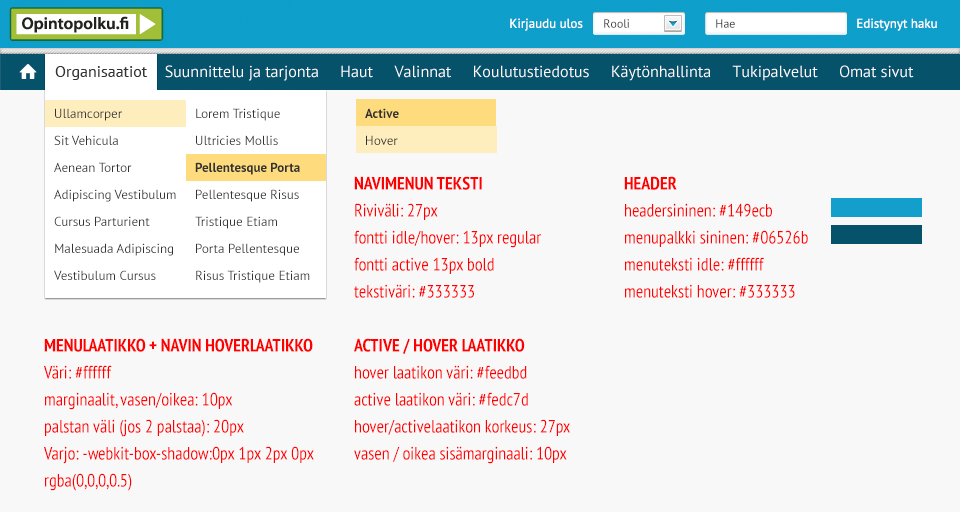
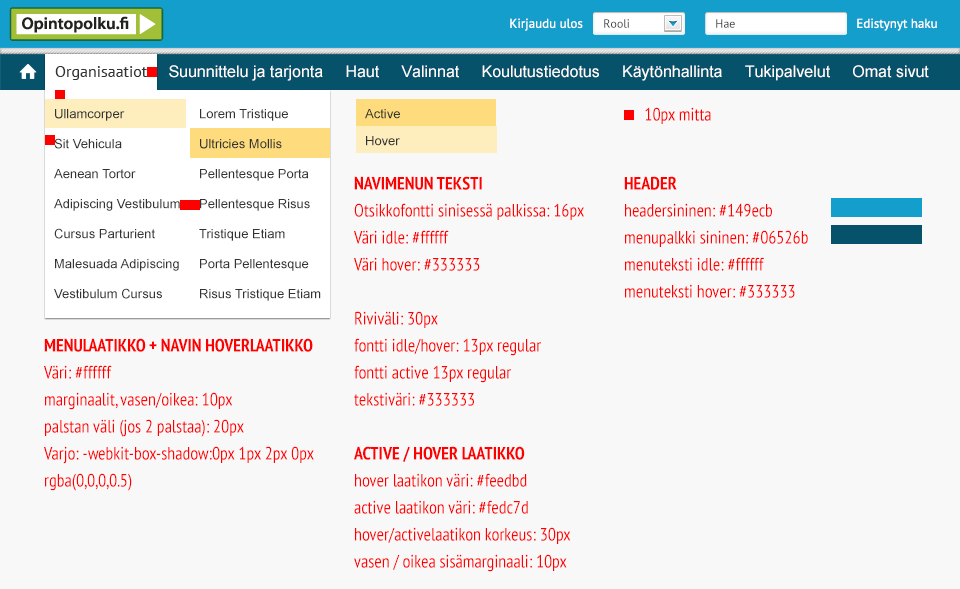
Ohjeita, esimerkkejä ja lisäkuvia

diff --git a/css-tyylikirjasto-virkailija.html b/css-tyylikirjasto-virkailija.html
@@ -50,12 +50,12 @@
           <li><a href="#taulukot">Taulukot</a></li>
           <li><a href="#murupolku">Murupolku</a></li>
           <li><a href="#muuta">Muuta</a></li>
-          <li><a href="#XXX">XXX</a></li>            
+          <!-- <li><a href="#XXX">XXX</a></li> -->            
             
         </ul>
     </div>
 <div class="span10">
-<p>Versio 0.1 — 30.12.2103 - matti.kilponen@cresense.com</p>    
+<p>Versio 0.2 — 9.1.2014 - matti.kilponen@cresense.com</p>    
 <div class="row-fluid">  <!-- ROW -->
 <h1>Esittely</h1>
     <p>Tässä dokumentissa esitellään Virkailijan työpöytäpalvelun visuaaliset elementit.</p>
@@ -65,17 +65,20 @@
 <p>Tämän dokumentin alussa kuvataan myös joitakin yleisiä tyyliseikkoja, joita ei ole toteutettu bootstrapilla. Näitä ovat logo, värit, ylätunniste ja footer.</p>
 <h2>Yleistä oppijan visuaalisesta tyylistä</h2>
 <p>Oppijan visuaalisen tyylin perusteet ovat yksinkertaisessa ja selkeässä värimaailmassa. Visuaalisia kolmiulotteisuutta imitoivia efektejä käytetään erittäin hillitysti. Painikkeita ja välilehtiä on hiukan korostettu liukuväreillä, muuten väripinnat ovat aina tasaisia.</p>
-<p>Kulmien pyöristystä käytetään sisältölaatikoissa, testinsyöttökentissä ja painikkeissa. Arvona käytetään silloin 3px.</p>
+<p>Kulmien pyöristystä käytetään sisältölaatikoissa, testinsyöttökentissä, painikkeissa ja alerteissa. Kulman pyöristysarvona on silloin 3px.</p>
 </div>
 
 <div class="row-fluid"> <!-- ROW -->
     <h2 id="logo">Logo <small></small></h2>
 <div class="well">
     <img src="img/Opintopolku-FI-134px-34px.png">
-    <p>Logo virkailijan sivuston ylätunnistetta varten, koko 134 x 34 pikseliä.</p>
-        <img src="img/Opintopolku-FI-225px-50px.png">
-    <p>Logo julkista opintopolkua varten, koko 225 x 50 pikseliä.</p>
-    
+    <p>Suomenkielinen logo virkailijan sivuston ylätunnistetta varten, koko 134 x 34 pikseliä.</p>
+    <img src="img/Studieinfo-SWE-134px-34px.png">
+    <p>Ruotsinkielinen logo virkailijan sivuston ylätunnistetta varten, koko 134 x 34 pikseliä.</p> 
+    <img src="img/Opintopolku-FI-225px-50px.png">
+    <p>Suomenkielinen logo julkista opintopolkua varten, koko 225 x 50 pikseliä.</p>
+    <img src="img/Studieinfo-SWE-225px-50px.png">
+    <p>Ruotsinkielinen logo julkista opintopolkua varten, koko 225 x 50 pikseliä.</p>
     <p>Logon käyttöä ohjaavat erilliset ohjeet joita tulee aina noudattaa. Logosta ei tule valmistaa uusia versioita muista kuin alkuperäisistä vektorimuodossa olevasta tiedostosta.</p>
     </div>
 </div> 					<!-- END ROW -->    
@@ -84,7 +87,10 @@
     <h2 id="varit">Värit <small></small></h2>
 <div style="" class="well">
     <h5>Yleistä värien käytöstä</h5>
-    <p>Värejä ei pidä käyttä itsetarkoituksellisesti koristeena vaan niiden käytössä on muistettava seuraavat periaatteet. xxx Pääväri on sininen, joka toimii tunnisteena koko palvelulle ja yhdistää Oppijan ja Virkailijan palvelut. Huomiovärinä toimii keltainen, joka korostaa pääasiallisia toimintoja. </p>
+    <p>Värejä ei pidä käyttä itsetarkoituksellisesti koristeena vaan niiden käytössä on muistettava funktionaalisuus ja palvelun yhtenäinen ilme.</p> 
+    <p>Pääväri on sininen, joka toimii tunnisteena koko palvelulle ja yhdistää Oppijan ja Virkailijan palvelut. Huomiovärinä toimii keltainen, joka korostaa pääasiallisia toimintoja.</p>
+<p>Palvelun tekstit kirjoitetaan pääasiassa mustalla värillä jonka hex-väriarvo on #333333. Tämä hieman vaalennettu musta on miellyttävämpi luettavuudeltaan silmille, mutta kuitenkin riittävä saavutettavuudeltaan.</p>
+<!-- <p>Pitäisikö tässä olla jotain saavutettavuudesta?</p>-->    
     <p>Oheinen kuva osoittaa miten värit sijoittuvat väriympyrälle. Värimuunnelmat on muodostettu säätämällä päävärien, sinisen ja keltaisen, valoisuutta. </p>    
 <div style="background-color:#149ecb; text-align:center; vertical-align: middle; padding:2em; border-style:solid;
 border-width:5px; border-color:white; box-shadow: 0px 0px 1px 0px rgba(0,0,0,0.5); border-radius:3px;" class="span2">#149ecb</div>
@@ -99,17 +105,6 @@ border-width:5px; border-color:white; box-shadow: 0px 0px 1px 0px rgba(0,0,0,0.5
     <div class="">
     <img style="margin-top:20px" class="img-rounded" src="img/variympyra.png">
     </div>    
-<!--
-    <div style="background-color:#149ecb; border-style:solid;
-border-width:5px; border-color:white; box-shadow: 0px 0px 1px 0px rgba(0,0,0,0.5); width: 100px; height:100px; padding-top:35px; padding-left:20px;" class="span1">#149ecb</div>
-<div style="background-color:#06526B; border-style:solid;
-border-width:5px; border-color:white; box-shadow: 0px 0px 1px 0px rgba(0,0,0,0.5); width: 100px; height:100px; padding-top:35px; padding-left:20px;" class="span1">#06526B</div>
-<div style="background-color:#feedbd; border-style:solid;
-border-width:5px; border-color:white; box-shadow: 0px 0px 1px 0px rgba(0,0,0,0.5); width: 100px; height:100px; padding-top:35px; padding-left:20px;" class="span1">#feedbd</div>
-    <div style="background-color:#feba00; border-style:solid;
-border-width:5px; border-color:white; box-shadow: 0px 0px 1px 0px rgba(0,0,0,0.5); width: 100px; height:100px; padding-top:35px; padding-left:20px;" class="span1">#feba00</div>    
-    </div>
--->
 </div> 					<!-- END ROW -->
 
 <div class="row-fluid"> <!-- ROW -->
@@ -130,8 +125,31 @@ border-width:5px; border-color:white; box-shadow: 0px 0px 1px 0px rgba(0,0,0,0.5
 </div> 					<!-- END ROW -->
 
 <div class="row-fluid"> <!-- ROW -->
+    <h2 id="murupolku">Murupolku <small></small></h2>
+    <div class="well">
+    <p>Angularin murupolkua ei ole muokattu virkailijan tyyliin, mutta oheisen kuvan mukaan sen voi tehdä tarvittaessa.</p>
+        <img src="img/murupolku.png">
+
+    
+<h5>Murupolun kuvaresurssit</h5>
+<p><img src="img/breadcrumb-home-icon.png"></p>
+<p>Koti-ikoni</p>        
+<p><img src="img/breadcrumb-arrow-icon.png"></p>
+<p>Väkänen</p>
+
+    </div>
+</div> 					<!-- END ROW -->    
+    
+<div class="row-fluid"> <!-- ROW -->
     <h2 id="footer">Footer <small></small></h2>
-<div class="well"><p>Footer koostuu laatikosta jossa voi tarpeen mukaan näyttää linkit kaikkiin Virkailijan palvelun sovelluksiin. Footerin alapuolelle sijoitetaan alatunniste jossa näytetään Opetushallituksen ja Opetus- ja kulttuuriministeriön logot ja osoitteet. Näiden edellämainittujen alle sijoitetaan copyright-lauseke.</p><img src="img/Virkailija_Footer_17.12.2013.png"> </div>
+<div class="well"><p>Footer koostuu laatikosta jossa voi tarpeen mukaan näyttää linkit kaikkiin Virkailijan palvelun sovelluksiin. Footerin alapuolelle sijoitetaan alatunniste jossa näytetään Opetushallituksen ja Opetus- ja kulttuuriministeriön logot ja osoitteet. Näiden edellämainittujen alle sijoitetaan copyright-lauseke.</p><img src="img/Virkailija_Footer_17.12.2013.png"> 
+<h5>Footerin kuvaresurssit</h5>
+<p>Kannattaa huomata että logoja ei tule muokata. Jos on tarve käyttää pienempää tai isompaa logoa ne tulee valmistaa käyttämällä alkuperäistä vektorimuotoista tiedostoa.</p>     
+<p><img src="img/OPH_logo.png"></p>
+<p>OPH logo</p>
+<p><img src="img/OKM_logo.png"></p>    
+<p>OKM logo</p>    
+</div>
 </div> 					<!-- END ROW -->
     
 <div class="row-fluid"> <!-- ROW -->
@@ -158,7 +176,7 @@ border-width:5px; border-color:white; box-shadow: 0px 0px 1px 0px rgba(0,0,0,0.5
         <button class="btn btn-primary btn-large" disabled>Painike primary iso disabled</button>
     </p>
     <h5>Milloin iso painike?</h5>
-        <p>Isoa painiketta voi käyttää näkymissä, joissa on vain vähän toimintoja ja pieni painike näyttäisi suhteettoman pieneltä muuten tyhjällä sivulla. Esimerkiksi jos näkymässä on vain yksi hakukenttä ja painike. Hakukenttä on kuitenkin silloin oltava suhteessa painikkeen kokoon.</p>
+        <p>Isoa painiketta voi käyttää näkymissä, joissa on vain vähän toimintoja ja pieni painike näyttäisi suhteettoman pieneltä muuten tyhjällä sivulla. Esimerkiksi jos näkymässä on vain yksi hakukenttä ja painike. Hakukenttä on kuitenkin silloin oltava suhteessa painikkeen kokoon. Katso esimerkki kohdasta <a href="#lomake">lomakekentät</a></p>
     </div>
 </div>		<!-- END ROW -->
 
@@ -213,15 +231,7 @@ border-width:5px; border-color:white; box-shadow: 0px 0px 1px 0px rgba(0,0,0,0.5
                             <input name="YourLastName" id="YourLastName" type="text" placeholder="Kirjoita jotain">
                         </div>
                 </div>
-<!--
-                <div class="control-group">
-                    <label for="YourStory" class="control-label">Tarinani</label>
-                        <div class="controls">
-                            <textarea name="YourStory" id="YourStory"  rows="5"></textarea>
-                        </div>
-                
-                </div>
--->
+
                 <div class="control-group">
                     <div class="controls">
                         <label class="checkbox">
@@ -242,6 +252,14 @@ border-width:5px; border-color:white; box-shadow: 0px 0px 1px 0px rgba(0,0,0,0.5
   <button type="submit" class="btn btn-primary">Hae</button>
     <a href="#" type="submit" class="">Edistynyt haku</a>
 </form>
+<hr>            
+
+<p>Hakukenttä ja painike, joiden kokoa on kasvatettu. Hakukentän kokoa ei voi tällä hetkellä kasvattaa angularin css tyyleillä, tässä tapauksessa kokoa on muutettu vastaamaan painikkeen kokoa antamalla tekstikentälle padding-arvoksi 11px. Painikkeen koko on muutettu isommaksi lisäämällä sille luokka <code>btn-large</code></p>            
+<form class="form-search">
+  <input type="text" style="padding:11px" class="input-medium">
+  <button type="submit" class="btn btn-primary btn-large">Hae</button>
+</form>             
+        
 <hr>
 <p>Käyttämällä luokkaa <code>.input-append</code> painikkeen voi liittää kiinni syöttökenttään.</p>                
 <div class="input-append">
@@ -282,19 +300,65 @@ border-width:5px; border-color:white; box-shadow: 0px 0px 1px 0px rgba(0,0,0,0.5
 <div class="row-fluid"> <!-- ROW -->
 <h2 id="typografia">Typografia</h2>
     <div class="well">
-
-        <h5>Body-fontin koko ja riviväli</h5>
-        <p>Tekstin koko on 13px ja riviväli 20px. Suhteellisia mittayksiköitä voi myös käyttää kunhan ne tuottavat selaimessa vastaavankokoisen lopputuloksen.</p>
         <h5>Fontstack</h5>
-        <p><code>"Helvetica Neue",Helvetica,Arial,sans-serif;</code></p>
+          
+        <p>Käytössä on seuraava fontstack: <code>"Helvetica Neue",Helvetica,Arial,sans-serif;</code></p>
+        <p>Pääasiallinen fontti on Helvetica Neue. Jos sitä ei löydy koneesta yritetään käyttää seuraavia fontteja: Helvetica, Arial tai geneerinen sans-serif fontti.</p>
 
-        <h1>h1 Otsikko. 28px</h1>
-        <h2>h2 Otsikko. 22px.</h2>
-        <h3>h3 Otsikko. 18px.</h3>
-        <h4>h4 Otsikko. 16px.</h4>
-        <h5>h5 Otsikko. 13px.</h5>
-        <h6>h6 Otsikko. 12px.</h6>
-        <p>Jukolan talo, eteläisessä Hämeessä, seisoo erään mäen pohjaisella rinteellä, liki Toukolan kylää. Sen läheisin ympäristö on kivinen tanner, mutta alempana alkaa pellot, joissa, ennenkuin talo oli häviöön mennyt, aaltoili teräinen vilja. Peltojen alla on niittu, apilaäyräinen, halkileikkaama monipolvisen ojan; ja runsaasti antoi se heiniä, ennenkuin joutui laitumeksi kylän karjalle. Muutoin on talolla avaria metsiä, soita ja erämaita, jotka, tämän tilustan ensimmäisen perustajan oivallisen toiminnan kautta, olivat langenneet sille osaksi jo ison-jaon käydessä entisinä aikoina. Silloinpa Jukolan isäntä, pitäen enemmän huolta jälkeentulevainsa edusta kuin omasta parhaastansa, otti vastaan osaksensa kulon polttaman metsän ja sai sillä keinolla seitsemän vertaa enemmän kuin toiset naapurinsa. Mutta kaikki kulovalkean jäljet olivat jo kadonneet hänen piiristänsä ja tuuhea metsä kasvanut sijaan.—Ja tämä on niiden seitsemän veljen koto, joiden elämänvaiheita tässä nyt käyn kertoilemaan.</p>        
+        <h1>H1 Otsikko. 28px</h1>
+        <p>H1 tason otsikko. Koko: 28px, väri: #333333, tyyli: bold.</p>
+        <h2>H2 Otsikko. 22px.</h2>
+        <p>H2 tason otsikko. Koko: 22px, väri: #333333, tyyli: bold.</p>
+        <h3>H3 Otsikko. 18px.</h3>
+        <p>H3 tason otsikko. Koko: 18px, väri: #333333, tyyli: bold.</p>
+        <h4>H4 Otsikko. 16px.</h4>
+        <p>H4 tason otsikko. Koko: 16px, väri: #333333, tyyli: bold.</p>
+        <h5>H5 Otsikko. 13px.</h5>
+        <p>H5 tason otsikko. Koko: 13px, väri: #333333, tyyli: bold.</p>
+        <h6>H6 Otsikko. 12px.</h6>
+        <p>H5 tason otsikko. Koko: 12px, väri: #333333, tyyli: bold.</p>
+        <h5>Body-fontti</h5>
+        <p>Tekstin koko 13px, väri #333333, tyyli normal ja riviväli 20px.</p>
+        <p>Suhteellisia mittayksiköitä voi myös käyttää koon määrittämisessä kunhan ne tuottavat selaimessa vastaavankokoisen lopputuloksen.</p>
+        <h5>Esimerkkitekstiä</h5>
+        <p>Jukolan talo, eteläisessä Hämeessä, seisoo erään mäen pohjaisella rinteellä, liki Toukolan kylää. Sen läheisin ympäristö on kivinen tanner, mutta alempana alkaa pellot, joissa, ennenkuin talo oli häviöön mennyt, aaltoili teräinen vilja. Peltojen alla on niittu, apilaäyräinen, halkileikkaama monipolvisen ojan; ja runsaasti antoi se heiniä, ennenkuin joutui laitumeksi kylän karjalle. Muutoin on talolla avaria metsiä, soita ja erämaita, jotka, tämän tilustan ensimmäisen perustajan oivallisen toiminnan kautta, olivat langenneet sille osaksi jo ison-jaon käydessä entisinä aikoina. Silloinpa Jukolan isäntä, pitäen enemmän huolta jälkeentulevainsa edusta kuin omasta parhaastansa, otti vastaan osaksensa kulon polttaman metsän ja sai sillä keinolla seitsemän vertaa enemmän kuin toiset naapurinsa. Mutta kaikki kulovalkean jäljet olivat jo kadonneet hänen piiristänsä ja tuuhea metsä kasvanut sijaan.—Ja tämä on niiden seitsemän veljen koto, joiden elämänvaiheita tässä nyt käyn kertoilemaan.</p>
+
+<p><em>Kursiiviteksti</em></p>
+<p><strong>Vahvistettu teksti</strong></p>
+
+<p>Numeroimaton lista</p>
+<ul>
+	<li>Juhani</li>
+	<li>Aapo</li>
+	<li>Tuomas</li>
+	<li>Simeoni</li>
+	<li>Timo</li>
+	<li>Lauri</li>
+	<li>Eero</li>
+        <ul>
+        <li>Männistön Venla</li>
+        <li>Lukkari</li>
+        <li>Rajamäen rykmentti</li>
+        <li>Viertolan herra</li>
+        <li>Valko</li>
+        <li>Killi ja Kiiski</li>
+        <li>Matti</li>
+        <li>Jukola</li>
+        <li>Impivaara</li>
+        <li>Toukola</li>
+        </ul>
+    </ul>
+<p>Numeroitu lista</p>
+<ol>
+	<li>Luku</li>
+	<li>Luku</li>
+	<li>Luku</li>
+	<li>Luku</li>
+	<li>Luku</li>
+	<li>Luku</li>
+	<li>Luku</li>
+</ol>
+
         
     </div>    
 </div>				<!-- END ROW -->
@@ -324,7 +388,7 @@ border-width:5px; border-color:white; box-shadow: 0px 0px 1px 0px rgba(0,0,0,0.5
     <h2 id="alertit">Alertit <small>eli huomiolaatikot</small></h2>
     <div class="well">
         <p>Alertteja varten on joissakin Virkailijasovelluksissa tehty oma komponentti, mutta jos sitä ei ole käytössä, voi käyttää allaolevia bootstrapin virkailija-tyyliin muokattuja komponentteja.</p>
-        <p>Alertteja on käytössä kolme eri väriä, keltainen <code>.alert</code> vihreä <code>.alert-success</code> ja sininen <code>.alert-info</code>. Keltainen ilmoittaa virheestä, vihreä onnistuneesta toiminnosta, sininen on neutraali ilmoitus. Bootstrapin punataustaista alerttia ei käytetä Virkailijan käyttöliittymässä vaan se korvataan keltataustaisella. Ikonin näyttäminen alertin sisällä on suositeltavaa. Jos ikonia käytetään täytyy lisätä luokka <code> .alert-block</code>, joka tuottaa isomman paddingin alertin sisään.</p>
+        <p>Alertteja on käytössä kolme eri väriä, keltainen <code>.alert</code> vihreä <code>.alert-success</code> ja sininen <code>.alert-info</code>. Keltainen ilmoittaa virheestä, vihreä onnistuneesta toiminnosta, sininen on neutraali ilmoitus. Bootstrapin punataustaista alerttia ei käytetä Virkailijan käyttöliittymässä vaan se korvataan keltataustaisella. Ikonin näyttäminen alertin sisällä on suositeltavaa, mutta ei välttämätöntä esimerkiksi tilan säästämiseksi. Jos ikonia käytetään täytyy lisätä luokka <code>.alert-block</code>, joka kasvattaa paddingia alertin sisällä.</p>
         <h3>Alert ikonin kanssa</h3>
         <div class="alert alert-block"><img style="margin-right:10px;" src="img/alert-icon28x29.png">Alert Block</div>
         <div class="alert alert-block alert-success"><img style="margin-right:10px;" src="img/confirm-icon28x29.png">Alert Block success</div>
@@ -482,10 +546,6 @@ border-width:5px; border-color:white; box-shadow: 0px 0px 1px 0px rgba(0,0,0,0.5
     </div>
 </div> 					<!-- END ROW -->
     
-<div class="row-fluid"> <!-- ROW -->
-    <h2 id="murupolku">Murupolku <small></small></h2>
-<div class="well"></div>
-</div> 					<!-- END ROW -->
     
 <div class="row-fluid"> <!-- ROW -->
     <h2 id="muuta">Muuta <small></small></h2>
@@ -499,15 +559,20 @@ border-width:5px; border-color:white; box-shadow: 0px 0px 1px 0px rgba(0,0,0,0.5
     </div>
 </div> 					<!-- END ROW -->
 
-<div class="row-fluid"> <!-- ROW -->
+<!--    
+<div class="row-fluid"> 
+    <h2 id="xxx">XXX <small></small></h2>
+<div class="well">   
+    </div>
+</div> 					 
+--> 
+
+<!-- 
+<div class="row-fluid"> 
     <h2 id="xxx">XXX <small></small></h2>
 <div class="well"></div>
-</div> 					<!-- END ROW -->
-    
-<div class="row-fluid"> <!-- ROW -->
-    <h2 id="xxx">XXX <small></small></h2>
-<div class="well"></div>
-</div> 					<!-- END ROW -->    
+</div> 					    
+-->
     
 </div> <!-- end span10 -->    
 </div>  <!--  end outer row-->           
